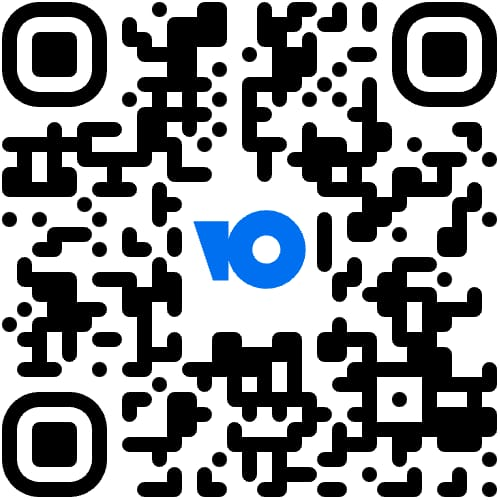
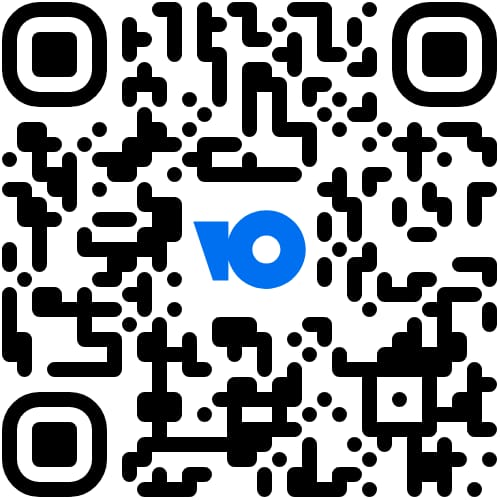
Заменил ссылку на qr и оплату музыкальной открытки

diff --git a/resources/views/frontend/musical-card.blade.php b/resources/views/frontend/musical-card.blade.php
@@ -56,7 +56,7 @@
                                 <img src="{{asset('assets/qr.jpeg')}}" alt="QR-код на оплату" height="200px" width="200px"/>
                             </div>
                             <div>
-                                <a type="button" href="https://yookassa.ru/my/i/aHfbl9jnFRqa/l" class="payment-button" target="_blank">Оплатить</a>
+                                <a type="button" href="https://yookassa.ru/my/i/aiLjs6jRPp1w/l" class="payment-button" target="_blank">Оплатить</a>
                             </div>
                         </div>
 
